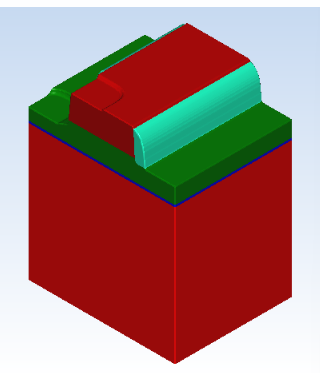
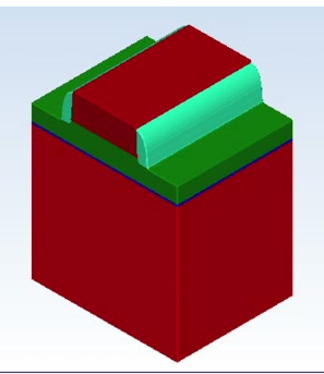
② spacer 그림을 FinCut 이전 장면으로 교체

diff --git a/finfet.html b/finfet.html
@@ -47,7 +47,7 @@
 </div>
 
 <div class="fig step">
-<img src="img/finfet-2-spacer.png" alt="붉은 기둥 옆면에 민트색 벽이 붙어 있는 그림">
+<img src="img/finfet-2-spacer.png" alt="붉은 기둥 양옆에 민트색 벽이 붙어 있는 그림">
 <div>
 <span class="tag">마스크 없음</span>
 <h3>② 기둥 옆면에 벽 세우기 (spacer)</h3>
